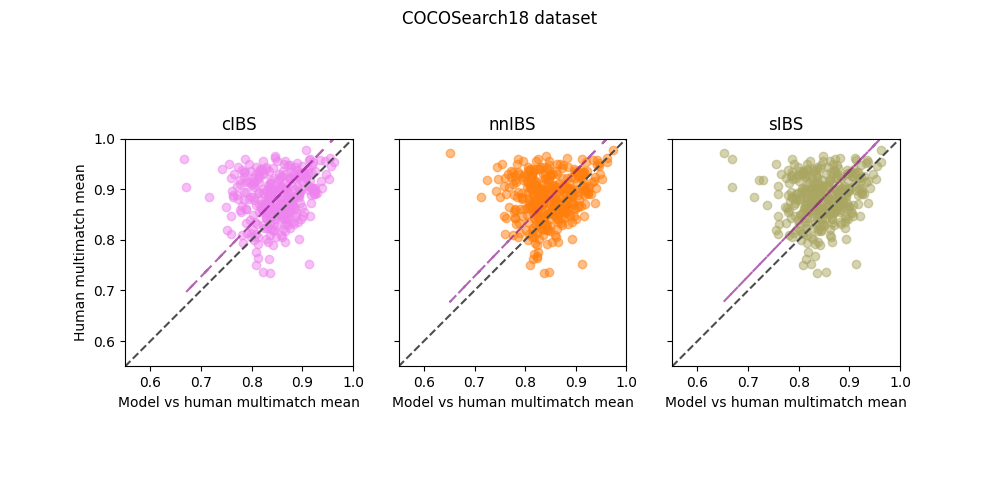
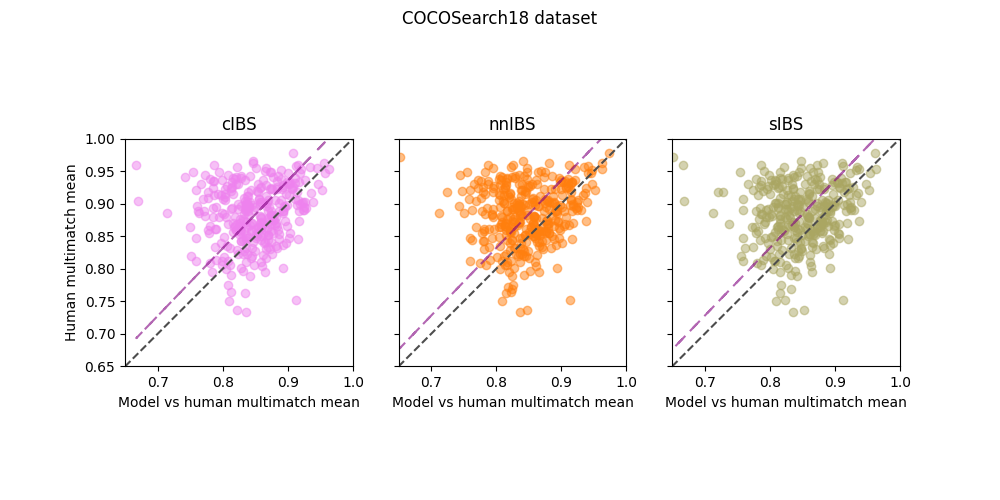
(Results) Bigger scale for Multi-Match

diff --git a/Metrics/scripts/multimatch.py b/Metrics/scripts/multimatch.py
@@ -72,8 +72,8 @@ class Multimatch:
             y_vector.append(value_y)
 
         # Set same scale for every dataset
-        ax.set_ylim(0.55, 1.0)
-        ax.set_xlim(0.55, 1.0)
+        ax.set_ylim(0.65, 1.0)
+        ax.set_xlim(0.65, 1.0)
         # Plot multimatch
         ax.scatter(x_vector, y_vector, color=plot_color, alpha=0.5)
 
